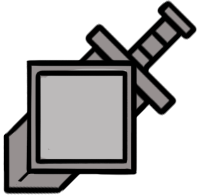
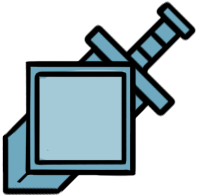
Update images. Show card cost

diff --git a/packages/components/src/CardStatic/CardStatic.js b/packages/components/src/CardStatic/CardStatic.js
@@ -8,6 +8,7 @@ import attackImage from './attack.png';
 import healthImage from './health.png';
 import moneyImage from './money.png';
 import bannerImage from './banner.png';
+import costImage from './coin.png';
 
 export default class CardStatic extends Component {
   static propTypes = {
@@ -18,6 +19,7 @@ export default class CardStatic extends Component {
     attack: PropTypes.number,
     defense: PropTypes.number,
     health: PropTypes.number,
+    cost: PropTypes.number,
     maxHealth: PropTypes.number,
     isDisabled: PropTypes.bool,
     isSelected: PropTypes.bool,
@@ -29,6 +31,7 @@ export default class CardStatic extends Component {
     attack: undefined,
     defense: undefined,
     health: undefined,
+    cost: undefined,
     maxHealth: undefined,
     isDisabled: false,
     isSelected: false,
@@ -44,6 +47,7 @@ export default class CardStatic extends Component {
       attack,
       defense,
       health,
+      cost,
       maxHealth,
       isDisabled,
       isSelected,
@@ -73,6 +77,14 @@ export default class CardStatic extends Component {
             alt="border"
           />
           <div className={overlayClasses}>
+            <img
+              className={styles.bannerImage}
+              src={bannerImage}
+              alt="banner"
+            />
+            <h2 className={styles.cardTitle}>
+              {name}
+            </h2>
             <div className={styles.attributes}>
               {attack && (
                 <span className={styles.attack}>
@@ -111,14 +123,18 @@ export default class CardStatic extends Component {
                 </span>
               )}
             </div>
-            <img
-              className={styles.bannerImage}
-              src={bannerImage}
-              alt="banner"
-            />
-            <h2 className={styles.cardTitle}>
-              {name}
-            </h2>
+            {cost && (
+              <div className={styles.cost}>
+                <span className={styles.costValue}>
+                  {cost}
+                </span>
+                <img
+                  className={styles.costImage}
+                  src={costImage}
+                  alt="cost"
+                />
+              </div>
+            )}
           </div>
         </section>
       </CardContainer>

diff --git a/packages/components/src/CardStatic/CardStatic.scss b/packages/components/src/CardStatic/CardStatic.scss
@@ -11,18 +11,41 @@ $card-radius: 4px;
 
 .cardTitle {
   position: absolute;
-  bottom: -3px;
+  bottom: -4px;
   width: 100%;
-  font-size: 0.7em;
+  font-size: 0.9em;
   color: #2c2b2b;
   text-align: center;
 }
 
 .bannerImage {
   position: absolute;
-  bottom: -4px;
-  left: 15%;
-  width: 70%;
+  bottom: -5px;
+  left: 8%;
+  width: 84%;
+}
+
+.cost {
+  position: absolute;
+  top: -8px;
+  right: -8px;
+
+  &Image {
+    width: 34px;
+  }
+
+  &Value {
+    position: absolute;
+    top: -3px;
+    display: flex;
+    width: 100%;
+    height: 100%;
+    justify-content: center;
+    align-items: center;
+    font-size: 1.4em;
+    font-weight: 800;
+    color: shade($money, 55);
+  }
 }
 
 .content {
@@ -66,7 +89,7 @@ $card-radius: 4px;
   width: 100%;
   height: 100%;
   border-radius: $card-radius;
-  opacity: 0.35;
+  opacity: 0.6;
 }
 
 .cardBorder {
@@ -79,47 +102,45 @@ $card-radius: 4px;
 
 .attributes > * {
   position: absolute;
-  width: 32px;
-  height: 32px;
-}
-
-.attackImage {
-  position: absolute;
-  top: 1px;
-  left: 2px;
-  width: 35px;
-}
-
-.moneyImage {
-  position: absolute;
-  top: -3px;
-  left: 0;
-  width: 29px;
-}
-
-.healthImage {
-  position: absolute;
-  top: 0;
-  left: 2px;
-  width: 28px;
+  left: -12px;
+  width: 38px;
+  height: 38px;
 }
 
 .attack {
-  top: 10px;
-  left: -10px;
-  color: shade($attack, 70);
+  top: 5px;
+  color: shade($attack, 40);
+
+  &Image {
+    position: absolute;
+    top: 0;
+    left: 2px;
+    width: 42px;
+  }
 }
 
 .money {
-  top: 49px;
-  left: -10px;
-  color: shade($money, 60);
+  top: 48px;
+  color: shade($money, 50);
+
+  &Image {
+    position: absolute;
+    top: -6px;
+    left: 2px;
+    width: 34px;
+  }
 }
 
 .health {
   top: 88px;
-  left: -10px;
-  color: shade($health, 60);
+  color: shade($health, 40);
+
+  &Image {
+    position: absolute;
+    top: 0;
+    left: 3px;
+    width: 32px;
+  }
 }
 
 .attributeValue {
@@ -130,7 +151,7 @@ $card-radius: 4px;
   height: 100%;
   justify-content: center;
   align-items: center;
-  font-size: 0.9em;
+  font-size: 1.3em;
   font-weight: 800;
 }
 

diff --git a/packages/components/src/CardView/CardView.js b/packages/components/src/CardView/CardView.js
@@ -31,6 +31,7 @@ export default class CardView extends Component {
         attack={getTrait(card, TraitIds.ATTACK)}
         defense={getTrait(card, TraitIds.DEFENSE)}
         health={getTrait(card, TraitIds.HEALTH)}
+        cost={card.isInHand && getTrait(card, TraitIds.COST)}
         maxHealth={getTrait(card, TraitIds.HEALTH, 'max')}
         {...passProps}
       />

diff --git a/packages/components/src/CardTypeView/CardTypeView.js b/packages/components/src/CardTypeView/CardTypeView.js
@@ -26,6 +26,7 @@ export default class CardTypeView extends Component {
         attack={getTrait(cardType, 'trt-attack')}
         defense={getTrait(cardType, 'trt-defense')}
         health={getTrait(cardType, 'trt-health')}
+        cost={getTrait(cardType, 'trt-cost')}
         maxHealth={getTrait(cardType, 'trt-health', 'max')}
         {...passProps}
       />

diff --git a/packages/server/src/services/LobbyService.js b/packages/server/src/services/LobbyService.js
@@ -38,7 +38,7 @@ export default class LobbyService {
 
     await Promise.all(Random.shuffle(users).map((user, idx) => {
       return UserRepository.save(user.clone({
-        money: 0,
+        money: 3,
         health: 16,
         turnOrder: idx,
       }));

diff --git a/packages/data/src/CardTypes.js b/packages/data/src/CardTypes.js
@@ -115,8 +115,8 @@ const CardTypes = [
       },
       {
         id: TraitIds.HEALTH,
-        value: 4,
-        max: 4,
+        value: 3,
+        max: 3,
       },
     ],
     handActions: [

diff --git a/packages/styles/core/colors.scss b/packages/styles/core/colors.scss
@@ -34,7 +34,7 @@ $yellow: #e9ec26;
 $purple: #8a10d1;
 $primary: #333033;
 
-$attack: #969090;
+$attack: #397eb6;
 $health: #c55050;
 $money: #c59c41;
 
